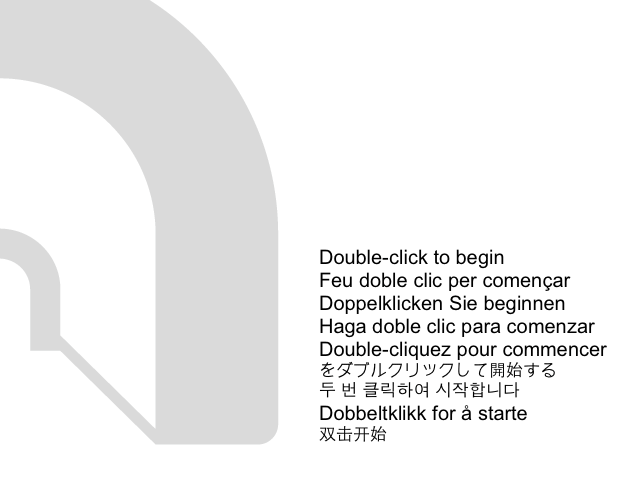
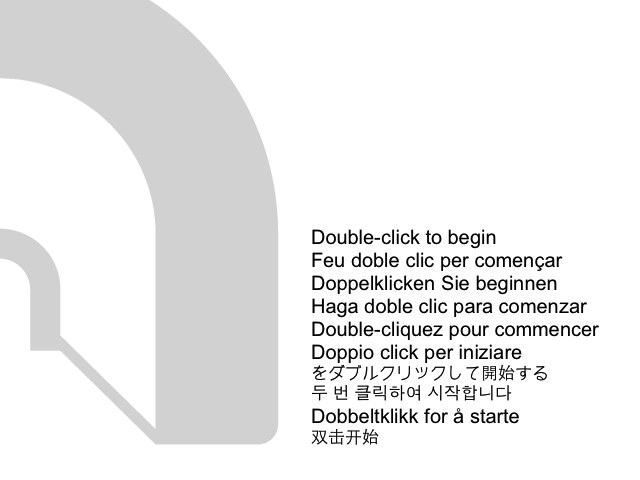
Build 1974: Italian localization thanks to Pierpaolo Gulla (Grazie). Also fixes bug with placement of the 'when computer starts' radio button in non-English versions of Tunnelblick
git-svn-id: http://tunnelblick.googlecode.com/svn/trunk@974 ecaf4b9d-c145-0410-a236-1b700048ef5c

Changed region(s): [[0.4688, 0.4688, 0.9688, 0.9375]]

diff --git a/tunnelblick/MenuController.m b/tunnelblick/MenuController.m
@@ -1790,10 +1790,14 @@ extern BOOL checkOwnerAndPermissions(NSString * fPath, uid_t uid, gid_t gid, NSS
         [disconnectButton setFrame:oldPos];
     } else if (  [theControl isEqual: autoConnectCheckbox]  ) {      // If the Auto Connect checkbox changes, shift the On Launch and On Computer Startup buttons left/right
         oldPos = [onLaunchRadioButton frame];
-        oldPos.origin.x = oldPos.origin.x - widthChange;
+        oldPos.origin.x = oldPos.origin.x + widthChange;
         [onLaunchRadioButton setFrame:oldPos];
         oldPos = [onSystemStartRadioButton frame];
-        oldPos.origin.x = oldPos.origin.x - widthChange;
+        oldPos.origin.x = oldPos.origin.x + widthChange;
+        [onSystemStartRadioButton setFrame:oldPos];
+    } else if (  [theControl isEqual: onLaunchRadioButton]  ) {      // If the On Launch checkbox changes, shift the On Computer Startup button left/right
+        oldPos = [onSystemStartRadioButton frame];
+        oldPos.origin.x = oldPos.origin.x + widthChange;
         [onSystemStartRadioButton setFrame:oldPos];
     } else if (  [theControl isEqual: onLaunchRadioButton]  ) {     // If the On Launch radio button changes, shift the On System Startup button left/right
         oldPos = [onSystemStartRadioButton frame];
